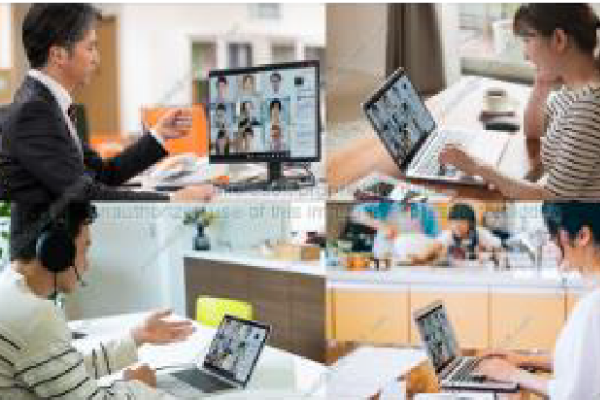
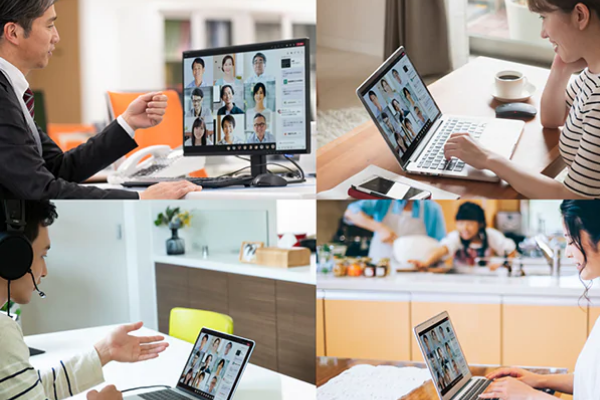
Adding new images and styling fixed

diff --git a/index.html b/index.html
@@ -425,6 +425,7 @@
             width:100%;
             z-index: 100;
             background: #fff;
+            background: #fff;
         }
         .top-nav .logo{
                 background: #3f8ddd;
@@ -524,6 +525,16 @@
             padding:15px;
             color: #707070
         }
+        .specification p{
+            font-size: 13px;
+        }
+
+        .specification li{
+            margin-top: 8px;
+            padding-left: 12px;
+            line-height: 1.2;
+            font-size: 13px;
+        }
 
 
 
@@ -561,7 +572,7 @@
         </div>
         <div class="row main-bg-color justify-content-center">
             <div class="col-11 pt-5 pb-5">
-                <pre class="desc-box d-flex justify-conten-center align-items-center text-center ">
+                <pre class="desc-box d-flex justify-conten-center align-items-center text-center mb-0">
                     「リモートワーク、まずはWeb会議から始めたい」「セキュリティも万全に」
                      そんな企業様に おススメなのがMicrosoft Teams。リモートワークの最初の一歩、いますぐ安全に Web 会議を始められます。</pre>
             </div>
@@ -605,7 +616,7 @@
             <div class="main-title text-center w-100">
                 リモートワークに最適なレノボPC
             </div>
-            <article class="container">
+            <article class="container pl-5 pr-5">
                 <div class="row">
                     <div class="col-12">
                         <div class="article-title">
@@ -620,7 +631,7 @@
                         <img class="image-contain" src="./img/think-pad.jpeg" alt="">
                     </div>
                     <div class="col-6">
-                        <ul>
+                        <ul class="ml-3">
                             <li>米沢生産モデル（最短5営業日で納品） 選択可能 </li>
                             <li>プロセッサー：インテル Core i7-10710U プロセッサー (1.10GHz, 12MB) 選択可能 </li>
                             <li>初期導入OS：Windows 10 Pro 64 bit 選択可能</li>
